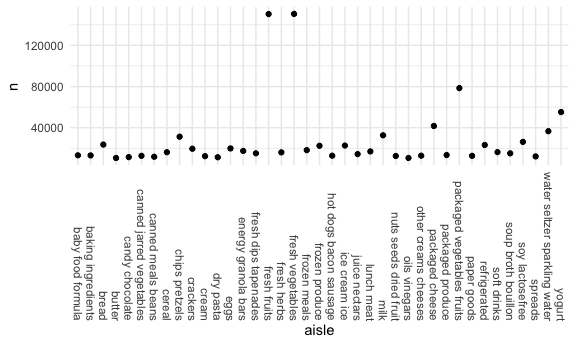
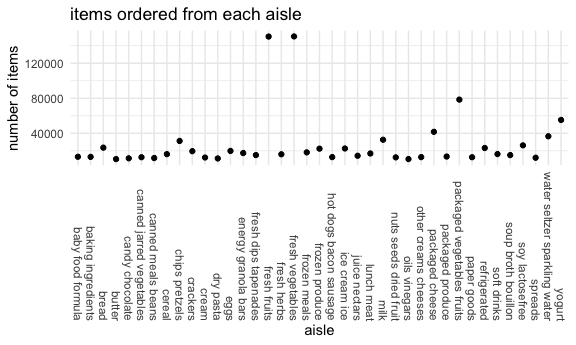
added labels for the plots

diff --git a/p8105_HW3_rkm2147.md b/p8105_HW3_rkm2147.md
@@ -6,19 +6,21 @@ Ronae McLin rkm2147
 library(tidyverse)
 ```
 
-    ## ── Attaching packages ──────────────────────── tidyverse 1.3.0 ──
+    ## ── Attaching packages ──────────────────────────────────────── tidyverse 1.3.0 ──
 
     ## ✓ ggplot2 3.3.2     ✓ purrr   0.3.4
     ## ✓ tibble  3.0.1     ✓ dplyr   1.0.0
     ## ✓ tidyr   1.1.0     ✓ stringr 1.4.0
     ## ✓ readr   1.3.1     ✓ forcats 0.5.0
 
-    ## ── Conflicts ─────────────────────────── tidyverse_conflicts() ──
+    ## ── Conflicts ─────────────────────────────────────────── tidyverse_conflicts() ──
     ## x dplyr::filter() masks stats::filter()
     ## x dplyr::lag()    masks stats::lag()
 
 ``` r
 library(patchwork)
+library(ggridges)
+
 
 knitr::opts_chunk$set(
   fig.width = 6,
@@ -84,7 +86,11 @@ instacart %>%
 instacart %>% 
   count(aisle) %>% 
   filter(n > 10000) %>% 
-  ggplot(aes( x = aisle, y = n)) + geom_point() + theme(axis.text.x = element_text(angle = 270, vjust = 0.5, hjust = 1))
+  ggplot(aes( x = aisle, y = n)) + geom_point() + theme(axis.text.x = element_text(angle = 270, vjust = 0.5, hjust = 1)) + labs(
+    title = "items ordered from each aisle",
+    x = "aisle",
+    y = "number of items"
+  )
 ```
 
 <img src="p8105_HW3_rkm2147_files/figure-gfm/unnamed-chunk-4-1.png" width="90%" />
@@ -140,7 +146,7 @@ instacart %>%
 
 # Problem 2
 
-**Load data & Tidy the data appropriately **
+Load data & tidy the data appropriately
 
 ``` r
 accel_df = read_csv("./accel_data.csv") %>% 
@@ -183,6 +189,8 @@ for this frame. Observations were collected for a total of 5 weeks.
 There are 1440 minutes in a 24 hour period, so the amount of
 observations seems appropriate**
 
+Create activity table based on weeks
+
 ``` r
 accel_df %>% 
   group_by(day, week) %>% 
@@ -209,7 +217,11 @@ the lowest on saturdays, notably during the fourth and fifth week.**
 
 ``` r
 accel_df %>% 
-ggplot(aes(x = minute, y = value, color = day, group = day_id)) + geom_line(alpha = .4) + geom_smooth(aes(group = day))
+ggplot(aes(x = minute, y = value, color = day, group = day_id)) + geom_line(alpha = .4) + geom_smooth(aes(group = day)) + labs(
+    title = "Distribution of activitiy levels over a 24 period for the course of a week",
+    x = "minutes",
+    y = "activity values"
+  )
 ```
 
     ## `geom_smooth()` using method = 'gam' and formula 'y ~ s(x, bs = "cs")'
@@ -232,123 +244,119 @@ data("ny_noaa")
 York state weather stations from January 1, 1981 through December 31,
 2010. Each weather station may collect only a subset of these variables,
 and therefore the resulting dataset contains extensive missing data.
-Variables include id, date, prcp, snow, snwd, tmax, tmin. There are a
+Variables include: id, date, prcp, snow, snwd, tmax, tmin. There are a
 total of 2595176 rows.**
 
+Load data, split the date variable, and make appropriate class changes
+
 ``` r
-ny_noaa = ny_noaa %>% 
-separate(date, into = c("year", "month", "day"), convert = TRUE)
+weather_df = ny_noaa %>% 
+separate(date, into = c("year", "month", "day"))  %>% 
+  mutate(tmax = as.numeric(tmax)) %>% 
+  mutate(tmin = as.numeric(tmin)) %>% 
+  mutate(year = as.factor(year)) %>% 
+  mutate(month = as.factor(month)) %>%
+  mutate(id = as.factor(id)) %>% 
+  mutate(
+    prcp = prcp/10,
+    tmax = tmax/10,
+    tmin = tmin/10
+  ) 
 ```
 
+Snow fall code chunk
+
 ``` r
-ny_noaa %>% 
-  mutate(
-   tmax = as.numeric(tmax),
-    tmin = as.numeric(tmin)
-  ) %>% 
-  mutate(
-    prcp = prcp / 10,
-    tmax = tmax / 10,
-    tmin = tmin / 10
-  ) %>% 
-    group_by(month) %>% 
-    count(snow) %>% 
-    mutate(rank = min_rank(desc(snow))) %>% 
-  filter(rank < 5) %>%
-  knitr::kable()
+weather_df %>% 
+  count(month, year,snow) %>% 
+  group_by(month, year) 
 ```
 
-| month |  snow |      n | rank |
-| ----: | ----: | -----: | ---: |
-|     1 |   978 |      1 |    4 |
-|     1 |  1105 |      1 |    3 |
-|     1 |  1207 |      1 |    2 |
-|     1 |  6350 |      1 |    1 |
-|     2 |   762 |      5 |    4 |
-|     2 |   775 |      1 |    3 |
-|     2 |   838 |      1 |    2 |
-|     2 |   892 |      1 |    1 |
-|     3 |   864 |      1 |    4 |
-|     3 |   914 |      3 |    3 |
-|     3 |  1041 |      1 |    2 |
-|     3 |  1067 |      1 |    1 |
-|     4 |   762 |      1 |    4 |
-|     4 |   940 |      1 |    3 |
-|     4 |  7765 |      1 |    2 |
-|     4 | 10160 |      1 |    1 |
-|     5 |   229 |      2 |    4 |
-|     5 |   249 |      1 |    3 |
-|     5 |   272 |      1 |    2 |
-|     5 |   305 |      1 |    1 |
-|     6 |    15 |      1 |    4 |
-|     6 |    25 |      1 |    3 |
-|     6 |    33 |      1 |    2 |
-|     6 |   216 |      1 |    1 |
-|     7 |     0 | 190472 |    4 |
-|     7 |     8 |      1 |    3 |
-|     7 |    25 |      1 |    2 |
-|     7 |    51 |      1 |    1 |
-|     8 |     3 |      1 |    4 |
-|     8 |    10 |      1 |    3 |
-|     8 |    25 |      1 |    2 |
-|     8 |   155 |      2 |    1 |
-|     9 |    25 |      2 |    4 |
-|     9 |    30 |      1 |    3 |
-|     9 |    94 |      1 |    2 |
-|     9 |   163 |      1 |    1 |
-|    10 |   445 |      1 |    4 |
-|    10 |   457 |      2 |    3 |
-|    10 |   483 |      2 |    2 |
-|    10 |   559 |      1 |    1 |
-|    11 |   554 |      1 |    4 |
-|    11 |   632 |      1 |    3 |
-|    11 |   953 |      1 |    2 |
-|    11 |  7122 |      1 |    1 |
-|    12 |   861 |      1 |    4 |
-|    12 |   871 |      1 |    3 |
-|    12 |   965 |      1 |    2 |
-|    12 |  1143 |      1 |    1 |
+    ## # A tibble: 14,722 x 4
+    ## # Groups:   month, year [360]
+    ##    month year   snow     n
+    ##    <fct> <fct> <int> <int>
+    ##  1 01    1981      0  4287
+    ##  2 01    1981      3    71
+    ##  3 01    1981      5    84
+    ##  4 01    1981      8    75
+    ##  5 01    1981     10    46
+    ##  6 01    1981     13   208
+    ##  7 01    1981     15    43
+    ##  8 01    1981     18    32
+    ##  9 01    1981     20    52
+    ## 10 01    1981     23    18
+    ## # … with 14,712 more rows
 
-Make a two-panel plot showing the average max temperature in January and
-in July in each station across years. Is there any observable /
-interpretable structure? Any outliers?
+**For snowfall, the most commonly observed value is 0, this makes sense
+since it doesn’t snow all year round in most places due to the
+seasonality of climate.**
+
+Two panel plot
 
 ``` r
-ny_noaa %>% 
-  mutate(
-   tmax = as.numeric(tmax),
-    tmin = as.numeric(tmin)
-  )%>% 
-  select(month, tmax, year) %>% 
-  group_by(month, year) %>% 
-  filter(month %in% c(1,7)) %>% 
-  drop_na() %>% 
-  summarize(mean_tmax = mean(tmax)) %>% 
-  ggplot(aes(x = year, y = mean_tmax)) + geom_point() + geom_smooth() +
+weather_df %>% 
+  filter(month %in% c("01","07")) %>% 
+  group_by(id, month, year) %>% 
+  summarize(mean_tmax = mean(tmax, na.rm = TRUE)) %>% 
+  ggplot(aes(x = year, y = mean_tmax, color = month)) + geom_path() + geom_point() +
   labs(
-    title = "jan and july average",
-    x = "year information",
-    y = "data i need"
+    title = "Average max temperature across the years January vs July",
+    x = "year",
+    y = "average max temperatures"
   ) +
-  facet_grid(~month, scales = "free_y")
+  facet_grid(~month) + theme(axis.text.x = element_text(angle = 90, vjust = 0.5, hjust = 1))
 ```
 
-    ## `summarise()` regrouping output by 'month' (override with `.groups` argument)
+    ## `summarise()` regrouping output by 'id', 'month' (override with `.groups` argument)
 
-    ## `geom_smooth()` using method = 'loess' and formula 'y ~ x'
+    ## Warning: Removed 1492 row(s) containing missing values (geom_path).
+
+    ## Warning: Removed 5970 rows containing missing values (geom_point).
 
 <img src="p8105_HW3_rkm2147_files/figure-gfm/unnamed-chunk-13-1.png" width="90%" />
 
-Make a two-panel plot showing (i) tmax vs tmin for the full dataset
-(note that a scatterplot may not be the best option); and (ii) make a
-plot showing the distribution of snowfall values greater than 0 and less
-than 100 separately by year.
+**Observations across the years appear to be constant for both the
+months of January and July. However for the month of January, there is a
+noticeable increase in the average max temperature between the period of
+1980 to 1990. As expected, the average max temperature is greater for
+the month of July compared to January. There are a few outliers of
+significance I notice on the plot, but I don’t interpret them to be
+extreme in nature. The most noticeable trend being that there is more
+spread of the data points within January.**
 
 ``` r
-ny_noaa %>% 
+temp_plot = 
+weather_df %>% 
   select(year, tmax, tmin) %>% 
   drop_na(tmax,tmin) %>% 
-  ggplot(aes(x = tmax, y = tmin)) + geom_bin2d()
+  ggplot(aes(x = tmax, y = tmin)) + geom_hex() + labs(
+    title = "The max and min temperatures across the NY NOAA dataset",
+    x = "Maximum temperature",
+    y = "Minimum temperature"
+  ) + theme(legend.position = "right")
 ```
 
-<img src="p8105_HW3_rkm2147_files/figure-gfm/unnamed-chunk-14-1.png" width="90%" />
+``` r
+snow_plot = 
+  weather_df %>% 
+  select(snow, year) %>% 
+  drop_na(snow) %>% 
+  filter(snow > 0 & snow < 100) %>% 
+  ggplot(aes(x = year, y = snow)) + geom_violin() + labs(
+    title = "the distribution of snowfall values greater than 0 and less than 100 by year",
+    x = "year",
+    y = "snowfall in mm"
+  ) + theme(axis.text.x = element_text(angle = 270, vjust = 0.5, hjust = 1))
+```
+
+``` r
+snow_plot + temp_plot
+```
+
+<img src="p8105_HW3_rkm2147_files/figure-gfm/unnamed-chunk-16-1.png" width="90%" />
+
+**Snow fall across the years is appropriate considering the seasonality
+associated with NY state. We also see that as the maximum temperature
+increases, the minimum increases as well. This is displaying a positive
+correlation between the two variables.**
